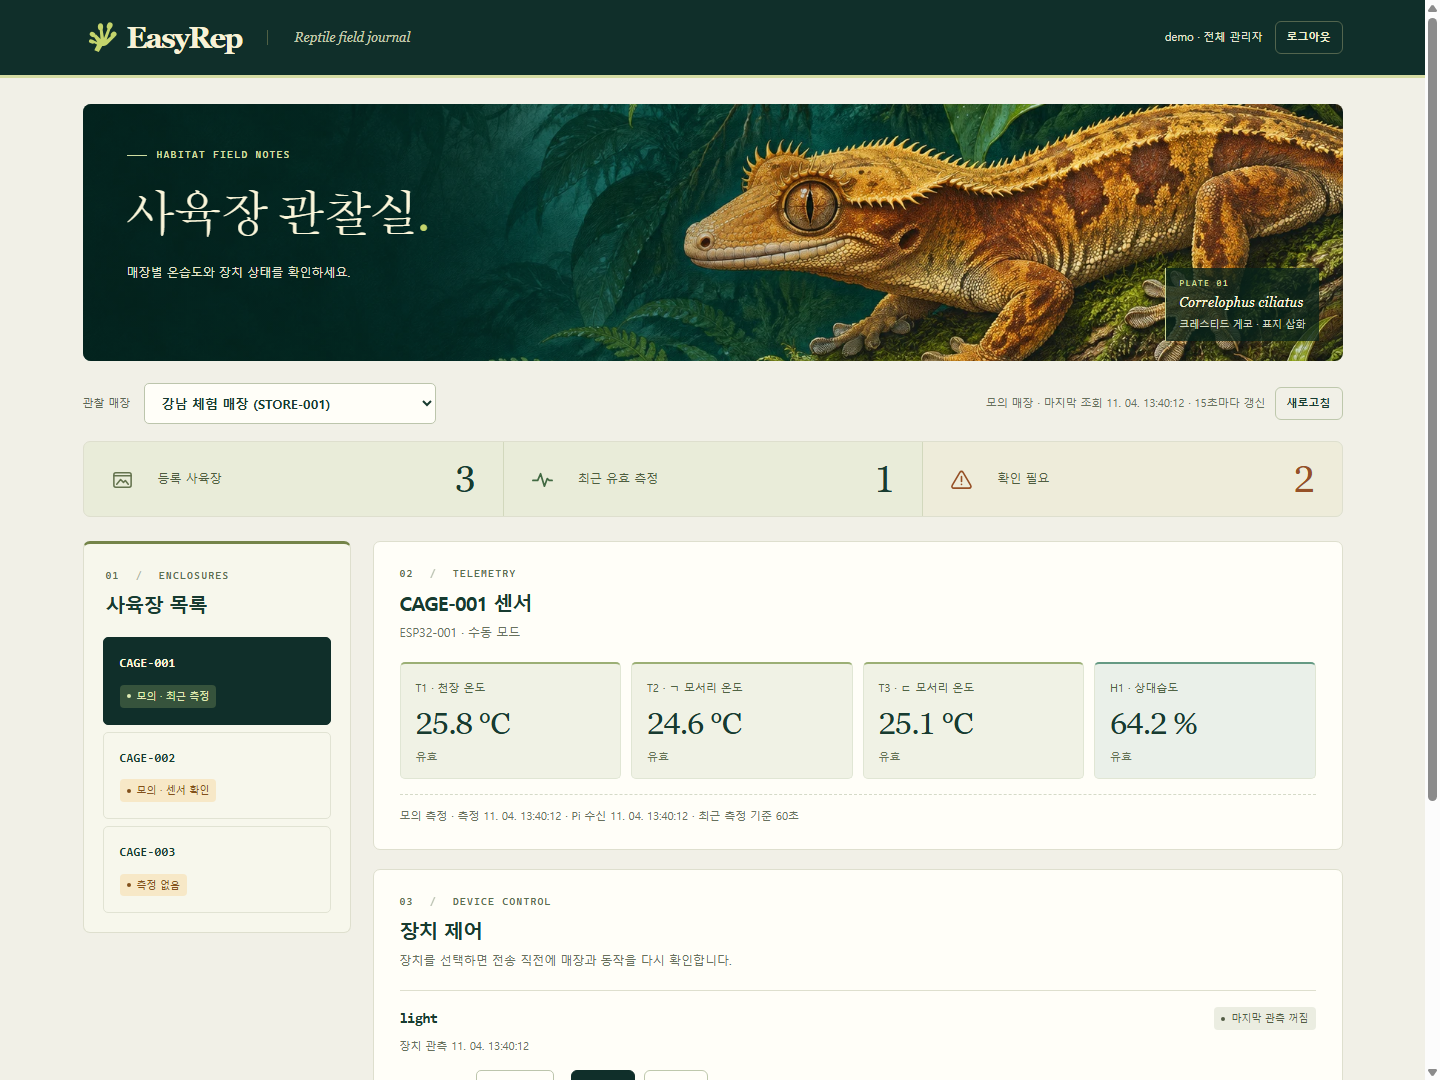
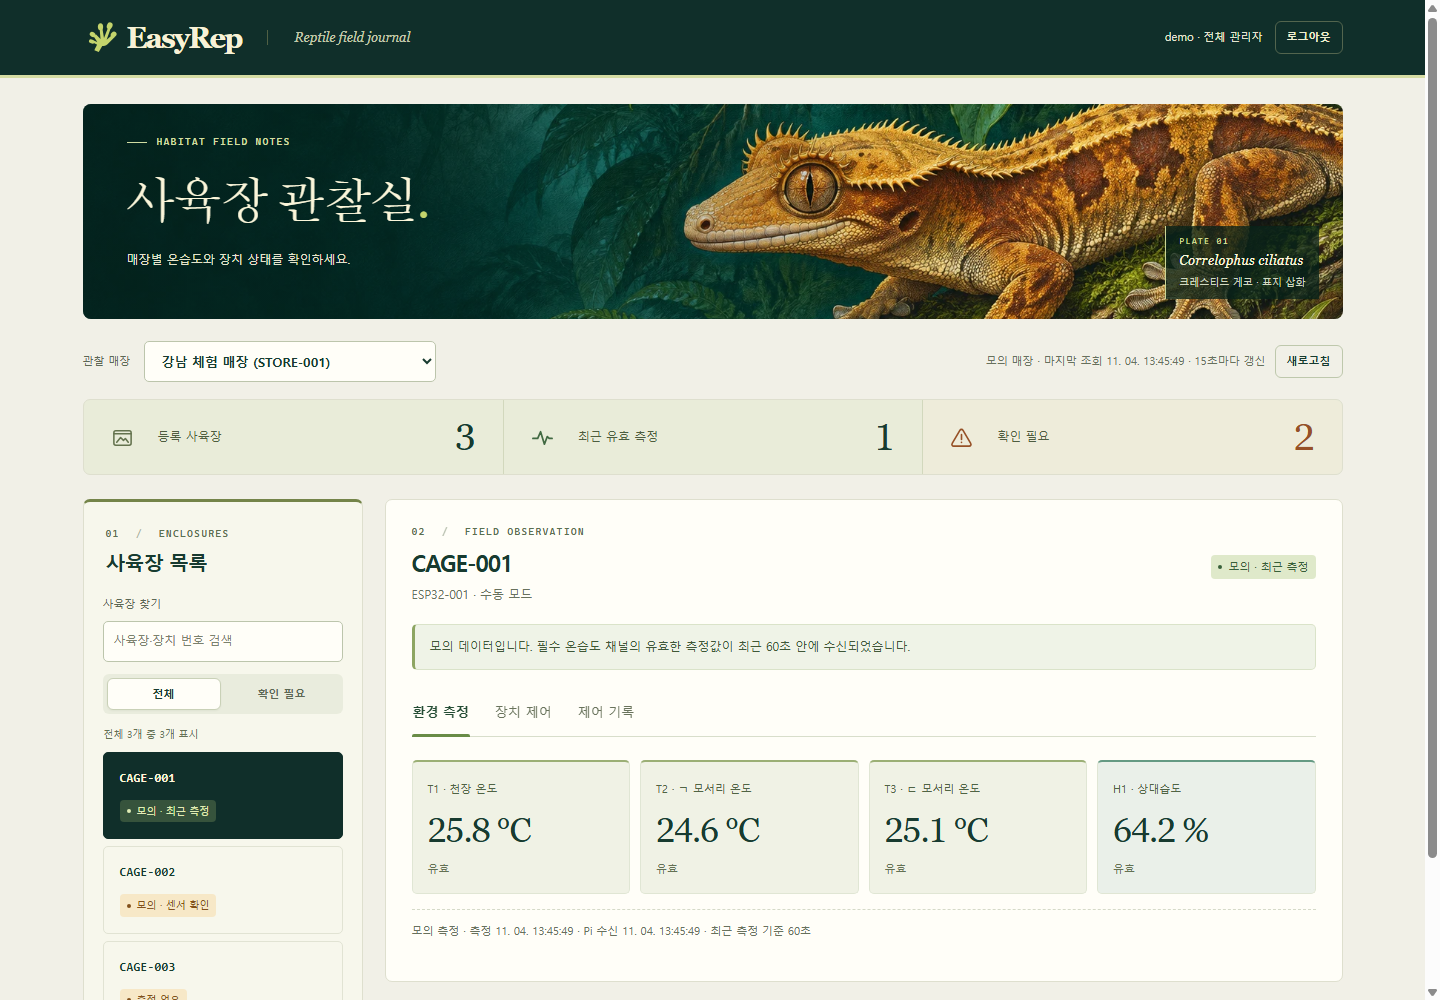
Improve cage discovery, sensor diagnostics and accessible detail tabs

diff --git a/static/app.js b/static/app.js
@@ -12,6 +12,8 @@ const terminal = new Set(["applied","rejected","expired","interrupted","executio
 const labels = {T1:"천장 온도",T2:"ㄱ 모서리 온도",T3:"ㄷ 모서리 온도",H1:"상대습도",RH1:"상대습도"};
 const reasons = {hardware_not_commissioned:"장치 출력 미승인",node_offline:"노드 오프라인",missing_telemetry:"측정값 없음",stale_telemetry:"측정 지연",transport_offline:"전송 연결 끊김",gateway_unhealthy:"게이트웨이 이상",clock_error:"장치 시계 오류"};
 let session = null, store = "", cageId = "", cages = [], view = 0, fetchVersion = 0, commandBusy = false;
+let onlyCare = false;
+const tabs = ["sensors","controls","history"];
 
 function tag(name, text, className) {
   const el = document.createElement(name);
@@ -49,9 +51,70 @@ function condition(cage) {
   if (!readings.length || readings.some(r => r?.quality !== "valid" || !Number.isFinite(r.value))) return [prefix + "센서 확인","warn"];
   return [prefix + "최근 측정","good"];
 }
+function sensorName(id) {
+  return Object.hasOwn(labels,id) ? id + "(" + labels[id] + ")" : id;
+}
+function blockedReason(reason) {
+  const [kind,id] = String(reason).split(":");
+  const sensorReasons = {
+    sensor_unavailable:"측정값을 확인할 수 없습니다",
+    sensor_out_of_range:"값이 장치에 설정된 범위를 벗어났습니다",
+    guard_minimum:"값이 장치에 설정된 하한 조건에 걸렸습니다",
+    guard_maximum:"값이 장치에 설정된 상한 조건에 걸렸습니다"
+  };
+  if (id && Object.hasOwn(sensorReasons,kind)) return sensorName(id) + " " + sensorReasons[kind];
+  return mapped(reasons,reason);
+}
+function cageAdvice(cage) {
+  if (!cage) return cages.length ? "검색어나 필터를 바꾸어 표시할 사육장을 선택하세요." : "매장과 사육장을 선택하면 측정 상태를 확인할 수 있습니다.";
+  const notes = [];
+  if (cage.transport_connected !== true) notes.push("전송 연결이 끊겼습니다. 현장 Pi와 장치 연결을 확인하세요.");
+  const t = cage.telemetry;
+  if (!t) {
+    notes.push("온습도 측정값을 아직 받지 못했습니다. BB6 센서와 수신 상태를 확인하세요.");
+    return notes.join(" ");
+  }
+  if (t.data_source === "simulation") notes.push("모의 데이터입니다.");
+  const readings = t.readings || {};
+  const missing = missingBB6(readings);
+  if (missing.length) notes.push(missing.map(sensorName).join(", ") + " 값이 누락되었습니다.");
+  const invalid = Object.entries(readings).filter(([,r]) => r?.quality !== "valid" || !Number.isFinite(r.value));
+  if (invalid.length) notes.push(invalid.map(([id,r]) => sensorName(id) + " " + (r?.quality === "valid" ? "수치 오류" : mapped(qualities,r?.quality))).join(", ") + ". 센서 배선과 연결을 확인하세요.");
+  if (!sampledRecently(t)) notes.push("측정 시각 또는 Pi 수신 시각이 최근 60초 범위 밖이거나 확인되지 않습니다. 장치 시계와 수신 상태를 확인하세요.");
+  if (cage.transport_connected === true && !missing.length && !invalid.length && sampledRecently(t)) notes.push("필수 온습도 채널의 유효한 측정값이 최근 60초 안에 수신되었습니다.");
+  return notes.join(" ");
+}
+function selectTab(name, focus = false) {
+  for (const key of tabs) {
+    const selected = key === name, tab = $("tab-" + key);
+    tab.setAttribute("aria-selected",String(selected));
+    tab.tabIndex = selected ? 0 : -1;
+    $("panel-" + key).hidden = !selected;
+  }
+  if (focus) $("tab-" + name).focus();
+}
+function resetFilters() {
+  onlyCare = false; $("cage-search").value = "";
+  $("filter-all").setAttribute("aria-pressed","true");
+  $("filter-care").setAttribute("aria-pressed","false");
+}
+function filteredCages() {
+  const query = $("cage-search").value.trim().toLocaleLowerCase();
+  return cages.filter(c => (!onlyCare || condition(c)[1] !== "good") &&
+    [c.cage_id,c.node_id].some(id => String(id || "").toLocaleLowerCase().includes(query)));
+}
+function updateFilteredCages() {
+  const shown = filteredCages();
+  if (!shown.some(c => c.cage_id === cageId)) {
+    setCage(shown[0]?.cage_id || "");
+    return;
+  }
+  renderCages(); renderDetails();
+}
 function showNotice(text = "") { $("notice").textContent = text; $("notice").hidden = !text; }
 function showLogin(message = "") {
   session = null; store = ""; cageId = ""; cages = []; view++; fetchVersion++;
+  resetFilters(); selectTab("sensors");
   $("boot").hidden = true; $("console").hidden = true; $("access").hidden = false;
   $("password").value = ""; $("login-message").textContent = message; $("username").focus();
 }
@@ -76,25 +139,40 @@ async function api(path, data) {
 }
 const storePath = () => "/api/stores/" + enc(store);
 function setCage(id) {
-  if (id !== cageId) $("action-message").textContent = "";
+  const moveDetailFocus = id !== cageId && tabs.some(name =>
+    document.activeElement === $("tab-" + name) || $("panel-" + name).contains(document.activeElement));
+  if (id !== cageId) { $("action-message").textContent = ""; selectTab("sensors"); }
   cageId = id; view++; renderCages(); renderDetails();
+  if (moveDetailFocus) (id ? $("tab-sensors") : $("cage-search")).focus();
   $("commands").replaceChildren(empty("제어 기록을 불러오는 중…"));
   refreshHistory(view);
 }
 function renderCages() {
+  const focusedCage = $("cages").contains(document.activeElement) ? document.activeElement.dataset.cage : null;
   const good = cages.filter(c => condition(c)[1] === "good").length;
   $("count-all").textContent = cages.length; $("count-ok").textContent = good; $("count-care").textContent = cages.length-good;
-  const nodes = cages.map(c => {
+  const shown = filteredCages();
+  $("filter-all").setAttribute("aria-pressed",String(!onlyCare));
+  $("filter-care").setAttribute("aria-pressed",String(onlyCare));
+  $("list-summary").textContent = "전체 " + cages.length + "개 중 " + shown.length + "개 표시";
+  const nodes = shown.map(c => {
     const b = tag("button",null,"cage-button");
+    b.dataset.cage = c.cage_id;
     b.setAttribute("aria-pressed",String(c.cage_id === cageId));
     b.append(tag("b",c.cage_id),badge(...condition(c)));
     b.addEventListener("click",() => setCage(c.cage_id)); return b;
   });
-  $("cages").replaceChildren(...(nodes.length ? nodes : [empty("표시할 사육장이 없습니다.")]));
+  $("cages").replaceChildren(...(nodes.length ? nodes : [empty(cages.length ? "검색·필터 조건에 맞는 사육장이 없습니다." : "표시할 사육장이 없습니다.")]));
+  if (focusedCage) (nodes.find(n => n.dataset.cage === focusedCage) || nodes.find(n => n.dataset.cage === cageId) || $("cage-search")).focus();
 }
 function renderDetails(keepInput = false) {
   const cage = cages.find(c => c.cage_id === cageId);
-  $("cage-title").textContent = cage ? cageId + " 센서" : "센서 측정값";
+  $("cage-title").textContent = cage ? cageId : "사육장 상세";
+  $("cage-state").replaceChildren(...(cage ? [badge(...condition(cage))] : []));
+  $("cage-advice").setAttribute("role","status");
+  $("cage-advice").dataset.tone = cage ? condition(cage)[1] : "";
+  const advice = cageAdvice(cage);
+  if ($("cage-advice").textContent !== advice) $("cage-advice").textContent = advice;
   $("cage-meta").textContent = cage ? [cage.node_id, cage.mode === "auto" ? "자동 모드" : cage.mode === "manual" ? "수동 모드" : cage.mode].filter(Boolean).join(" · ") : "매장과 사육장을 선택하세요.";
   const t = cage?.telemetry;
   const readings = t?.readings || {};
@@ -123,7 +201,7 @@ function renderControls(cage) {
     head.append(tag("h3",id),badge(typeof obs?.state === "boolean" ? (obs.state ? "마지막 관측 켜짐" : "마지막 관측 꺼짐") : "관측 없음"));
     section.append(head);
     if (obs?.occurred_at) section.append(tag("p","장치 관측 " + displayTime(obs.occurred_at)));
-    if (a.on_blocked_reason) section.append(tag("p","켜기 제한 · " + mapped(reasons,a.on_blocked_reason)));
+    if (a.on_blocked_reason) section.append(tag("p","켜기 제한 · " + blockedReason(a.on_blocked_reason)));
     if (!hasAccess) return section;
     const actions = tag("div",null,"control-actions"), input = tag("input"), label = tag("label","켜짐 시간(초) ");
     input.type = "number"; input.step = "any"; input.min = "0.001"; input.max = String(Math.min(3600,Number(a.max_on_s) || 0));
@@ -160,7 +238,7 @@ function historyRow(c) {
     button.addEventListener("click",async () => {
       const token = view; button.disabled = true;
       try { await api(storePath() + "/commands/" + enc(c.request_id)); if (view === token) await refreshHistory(token,false); }
-      catch(e) { if (view === token) $("action-message").textContent = e.message; }
+      catch(e) { if (view === token) showNotice(e.message); }
       finally { button.disabled = false; }
     }); right.append(button);
   }
@@ -226,7 +304,7 @@ async function refresh() {
     cages = data.cages;
     const simulated = cages.length > 0 && cages.every(c => c.transport === "simulated");
     showNotice(); $("updated").textContent = (simulated ? "모의 매장 · " : "") + "마지막 조회 " + displayTime(Date.now()) + " · 15초마다 갱신";
-    if (!cages.some(c => c.cage_id === cageId)) { setCage(cages[0]?.cage_id || ""); }
+    if (!filteredCages().some(c => c.cage_id === cageId)) { setCage(filteredCages()[0]?.cage_id || ""); }
     else {
       renderCages();
       renderDetails($("controls").contains(document.activeElement));
@@ -242,6 +320,7 @@ async function refresh() {
 }
 function selectStore() {
   view++; fetchVersion++; store = $("store").value; cageId = ""; cages = []; showNotice();
+  resetFilters(); selectTab("sensors");
   $("action-message").textContent = ""; $("updated").textContent = store ? "매장 데이터 조회 중…" : "등록된 매장이 없습니다.";
   renderCages(); renderDetails(); $("commands").replaceChildren();
   for (const id of ["count-all","count-ok","count-care"]) $(id).textContent = "—";
@@ -269,5 +348,23 @@ $("logout").addEventListener("click",async () => {
 });
 $("store").addEventListener("change",selectStore);
 $("refresh").addEventListener("click",refresh);
+$("cage-search").addEventListener("input",() => updateFilteredCages());
+for (const [id,care] of [["filter-all",false],["filter-care",true]]) {
+  $(id).addEventListener("click",() => { onlyCare = care; updateFilteredCages(); });
+}
+for (const [index,name] of tabs.entries()) {
+  const tab = $("tab-" + name);
+  tab.addEventListener("click",() => selectTab(name));
+  tab.addEventListener("keydown",event => {
+    const keys = {ArrowLeft:(index + tabs.length - 1) % tabs.length,ArrowRight:(index + 1) % tabs.length,Home:0,End:tabs.length - 1};
+    if (!Object.hasOwn(keys,event.key)) return;
+    const next = keys[event.key];
+    event.preventDefault(); selectTab(tabs[next],true);
+  });
+}
+selectTab("sensors");
+document.addEventListener("visibilitychange",() => {
+  if (!document.hidden && session && !commandBusy && !$("refresh").disabled) refresh();
+});
 setInterval(() => { if (!document.hidden && session && !$("refresh").disabled && !commandBusy) refresh(); },15000);
 api("/api/session").then(openConsole).catch(e => showLogin(e.status === 401 ? "" : e.message));

diff --git a/static/style.css b/static/style.css
@@ -148,8 +148,8 @@ h2 { font-size: 20px; font-weight: 700; }
 .mast .quiet { color: #eff0cf; border-color: #53654e; }
 .mast .quiet:hover:enabled { background: #294b3b; border-color: #90a36c; }
 .content { padding-top: 26px; }
-.hero { min-height: 257px; overflow: hidden; border-radius: 8px; }
-.hero-copy { padding: 43px 44px 53px; width: 53%; }
+.hero { min-height: 215px; overflow: hidden; border-radius: 8px; }
+.hero-copy { padding: 30px 44px 34px; width: 53%; }
 .hero .kicker { color: #d0dda2; margin-bottom: 17px; }
 .hero h1 { font-family: var(--serif); font-size: clamp(35px, 3.5vw, 49px); font-weight: 500; line-height: 1.4; white-space: nowrap; }
 .hero-copy > p:last-child { font-size: 12px; color: #e5e4cc; margin-top: 14px; word-break: keep-all; text-wrap: pretty; }
@@ -178,7 +178,7 @@ h2 { font-size: 20px; font-weight: 700; }
 .stat-care { background: #eeecda; border-radius: 0 7px 7px 0; }
 .stat-care > svg, .stat-care > strong { color: #965127; }
 .notice { color: #7d3719; background: #ffebd1; border: 1px solid #e3b88e; border-radius: 6px; padding: 12px 16px; margin: 12px 0; font-size: 13px; }
-.workspace { display: grid; grid-template-columns: 268px minmax(0, 1fr); gap: 22px; align-items: start; }
+.workspace { display: grid; grid-template-columns: 280px minmax(0, 1fr); gap: 22px; align-items: start; }
 .stack { min-width: 0; display: grid; gap: 19px; }
 .panel { background: var(--paper); border: 1px solid var(--line); border-radius: 7px; padding: 24px 26px; }
 .panel-head { margin-bottom: 19px; }
@@ -186,6 +186,13 @@ h2 { font-size: 20px; font-weight: 700; }
 .panel-head .muted { font-size: 12px; }
 .cage-index { padding: 24px 19px 19px; border-top: 3px solid #748449; background: #f7f7ec; }
 .cage-index .panel-head { padding-inline: 3px; }
+.search-label { display: block; font-size: 11px; color: #5c6855; margin-bottom: 7px; }
+.cage-search { width: 100%; min-height: 41px; font-size: 12px; padding: 9px 10px; }
+.cage-search::placeholder { color: #7b816d; }
+.cage-filters { display: flex; gap: 4px; padding: 4px; margin-top: 12px; background: #e9ecdd; border-radius: 6px; }
+.cage-filters button { flex: 1; border: 1px solid transparent; background: transparent; padding: 6px 8px; font-size: 11px; color: #5c6855; }
+.cage-filters button[aria-pressed="true"] { background: var(--paper); color: var(--ink); border-color: #c9d1b7; box-shadow: 0 1px 2px rgb(35 54 27 / 5%); }
+.list-summary { color: #657154; font-size: 10px; margin: 12px 1px 10px; }
 .cage-list { display: grid; gap: 7px; }
 .cage-button {
   width: 100%;
@@ -208,10 +215,25 @@ h2 { font-size: 20px; font-weight: 700; }
 .badge.warn { background: #f7e8c7; color: #82501b; }
 .badge.bad { background: #f9e0d3; color: #923b25; }
 .cage-button[aria-pressed="true"] .badge.good { background: #36533c; color: #e0ecb5; }
+.selected-header { display: flex; justify-content: space-between; align-items: center; gap: 12px; }
+.selected-header h2 { font-size: 23px; }
+.selected-header .badge { font-size: 11px; }
+.health-note { background: #eff3e7; border: 1px solid #dae3c9; border-left: 3px solid #8da562; border-radius: 5px; padding: 12px 15px; color: #405838; font-size: 12px; word-break: keep-all; overflow-wrap: anywhere; }
+.health-note[data-tone="warn"] { background: #fbf2e1; border-color: #ead9b8; border-left-color: #ba8842; color: #815323; }
+.health-note[data-tone="bad"] { background: #fbeae0; border-color: #e9ccbb; border-left-color: #aa5633; color: #89452d; }
+.health-note:empty { display: none; }
+.detail-tabs { display: flex; gap: 24px; margin-top: 22px; border-bottom: 1px solid #d8decb; }
+.detail-tabs button { position: relative; border: 0; border-radius: 0; background: transparent; padding: 9px 1px 13px; min-height: 44px; color: #69735c; font-size: 13px; font-weight: 500; }
+.detail-tabs button[aria-selected="true"] { color: #254d35; font-weight: 700; }
+.detail-tabs button[aria-selected="true"]::after { content: ""; position: absolute; height: 3px; background: #698c47; left: 0; right: 0; bottom: -1px; border-radius: 2px 2px 0 0; }
+.detail-tabs button:hover:enabled { color: #254d35; background: #f1f4e8; }
+.detail-panel { padding-top: 23px; min-height: 220px; }
+.detail-panel:focus-visible { outline: 2px solid #b17d28; outline-offset: 5px; }
+.detail-panel > .muted { margin: 0 0 17px; font-size: 12px; }
 .readings { display: grid; grid-template-columns: repeat(auto-fit, minmax(125px, 1fr)); gap: 10px; }
-.reading { padding: 15px 15px 12px; background: #f0f2e5; border: 1px solid #e0e6d4; border-top: 2px solid #9baf75; border-radius: 5px; min-width: 0; overflow-wrap: anywhere; }
+.reading { padding: 18px 15px 15px; background: #f0f2e5; border: 1px solid #e0e6d4; border-top: 2px solid #9baf75; border-radius: 5px; min-width: 0; overflow-wrap: anywhere; }
 .reading b { display: block; color: #506444; font-size: 11px; font-weight: 500; }
-.reading strong { display: block; margin: 6px 0 3px; font-family: Georgia, "Malgun Gothic", serif; font-weight: 400; font-size: 31px; line-height: 1.35; letter-spacing: -.035em; font-variant-numeric: lining-nums tabular-nums; }
+.reading strong { display: block; margin: 10px 0 6px; font-family: Georgia, "Malgun Gothic", serif; font-weight: 400; font-size: 34px; line-height: 1.35; letter-spacing: -.035em; font-variant-numeric: lining-nums tabular-nums; }
 .reading small { display: block; font-size: 11px; color: #647153; }
 .reading[data-quality="error"] { background: #fcf0df; border-color: #edd4ac; border-top-color: #ba7d43; }
 .reading[data-quality="error"] small { color: #8d4d20; }
@@ -274,9 +296,9 @@ footer span { color: #4c654a; font: italic 21px Georgia, serif; }
   .account { font-size: 9px; }
   .mast .quiet { font-size: 10px; padding-inline: 9px; }
   .content { padding-top: 16px; }
-  .hero { min-height: 255px; background-position: 57% center; }
+  .hero { min-height: 214px; background-position: 57% center; }
   .hero::before { background: linear-gradient(90deg, rgb(4 28 23 / 86%), rgb(4 28 23 / 30%) 70%, transparent); }
-  .hero-copy { padding: 29px 22px 75px; width: 100%; }
+  .hero-copy { padding: 25px 22px 65px; width: 100%; }
   .hero .kicker { font-size: 9px; margin-bottom: 14px; }
   .hero h1 { font-size: clamp(28px, 7.5vw, 38px); }
   .hero-copy > p:last-child { font-size: 10px; margin-top: 12px; max-width: 190px; }
@@ -301,12 +323,22 @@ footer span { color: #4c654a; font: italic 21px Georgia, serif; }
   .cage-index .panel-head { display: flex; align-items: center; justify-content: space-between; gap: 6px; padding: 0; }
   .cage-index .eyebrow { margin-bottom: 0; font-size: 9px; }
   .cage-index h2 { font-size: 14px; }
+  .search-label { font-size: 11px; }
+  .cage-search { min-height: 44px; font-size: 16px; }
+  .cage-filters button { min-height: 36px; font-size: 12px; }
+  .list-summary { font-size: 11px; }
   .cage-list { grid-template-columns: repeat(3, minmax(0, 1fr)); gap: 5px; }
   .cage-button { padding: 12px 7px; gap: 10px; font-size: 10px; }
   .cage-button .badge { font-size: 8px; white-space: normal; padding: 3px 4px; gap: 4px; }
   .readings { gap: 8px; }
   .reading { padding: 13px 12px; }
   .reading strong { font-size: 29px; }
+  .selected-header { align-items: flex-start; flex-direction: column; gap: 10px; }
+  .selected-header h2 { font-size: 21px; }
+  .health-note { font-size: 11px; padding: 11px 12px; }
+  .detail-tabs { gap: 20px; margin-top: 14px; }
+  .detail-tabs button { font-size: 12px; }
+  .detail-panel { padding-top: 18px; }
   .footnote { font-size: 9px; }
 }
 @media (max-width: 360px) {

diff --git a/static/index.html b/static/index.html
@@ -68,15 +68,42 @@
       <div class="stat stat-care"><svg aria-hidden="true"><use href="#attention"/></svg><span>확인 필요</span><strong id="count-care">—</strong></div>
     </section>
     <div class="workspace">
-      <aside class="panel cage-index"><div class="panel-head"><p class="eyebrow">01 <span>/</span> Enclosures</p><h2>사육장 목록</h2></div><div id="cages" class="cage-list"></div></aside>
+      <aside class="panel cage-index">
+        <div class="panel-head"><p class="eyebrow">01 <span>/</span> Enclosures</p><h2>사육장 목록</h2></div>
+        <label class="search-label" for="cage-search">사육장 찾기</label>
+        <input id="cage-search" class="cage-search" type="search" placeholder="사육장·장치 번호 검색" autocomplete="off">
+        <div class="cage-filters" role="group" aria-label="사육장 상태 필터">
+          <button id="filter-all" aria-pressed="true">전체</button>
+          <button id="filter-care" aria-pressed="false">확인 필요</button>
+        </div>
+        <p id="list-summary" class="list-summary" role="status"></p>
+        <div id="cages" class="cage-list"></div>
+      </aside>
       <div class="stack">
-        <section class="panel"><div class="panel-head"><p class="eyebrow">02 <span>/</span> Telemetry</p><h2 id="cage-title">센서 측정값</h2><p id="cage-meta" class="muted"></p></div>
-          <div id="readings" class="readings"></div><div id="sample-meta" class="footnote"></div>
+        <section class="panel observation" aria-labelledby="cage-title">
+          <div class="panel-head selected-header">
+            <div><p class="eyebrow">02 <span>/</span> Field observation</p><h2 id="cage-title">사육장을 선택하세요</h2><p id="cage-meta" class="muted"></p></div>
+            <div id="cage-state"></div>
+          </div>
+          <p id="cage-advice" class="health-note" role="status"></p>
+          <div class="detail-tabs" role="tablist" aria-label="사육장 상세 화면">
+            <button id="tab-sensors" role="tab" aria-selected="true" aria-controls="panel-sensors" tabindex="0">환경 측정</button>
+            <button id="tab-controls" role="tab" aria-selected="false" aria-controls="panel-controls" tabindex="-1">장치 제어</button>
+            <button id="tab-history" role="tab" aria-selected="false" aria-controls="panel-history" tabindex="-1">제어 기록</button>
+          </div>
+          <section id="panel-sensors" class="detail-panel" role="tabpanel" aria-labelledby="tab-sensors" tabindex="0">
+            <div id="readings" class="readings"></div>
+            <div id="sample-meta" class="footnote"></div>
+          </section>
+          <section id="panel-controls" class="detail-panel" role="tabpanel" aria-labelledby="tab-controls" tabindex="0" hidden>
+            <p id="control-note" class="muted"></p>
+            <div id="controls"></div><p id="action-message" class="form-message" role="status"></p>
+          </section>
+          <section id="panel-history" class="detail-panel" role="tabpanel" aria-labelledby="tab-history" tabindex="0" hidden>
+            <p class="muted">선택한 사육장에 보낸 요청과 장치의 처리 결과입니다.</p>
+            <div id="commands"></div>
+          </section>
         </section>
-        <section class="panel"><div class="panel-head"><p class="eyebrow">03 <span>/</span> Device control</p><h2>장치 제어</h2><p id="control-note" class="muted"></p></div>
-          <div id="controls"></div><p id="action-message" class="form-message" role="status"></p>
-        </section>
-        <section class="panel"><div class="panel-head"><p class="eyebrow">04 <span>/</span> Command log</p><h2>제어 기록</h2><p class="muted">선택한 사육장에 보낸 요청과 장치의 처리 결과입니다.</p></div><div id="commands"></div></section>
       </div>
     </div>
     <footer><span>EasyRep</span> 파충류 사육장 관찰 기록</footer>

diff --git a/README.md b/README.md
@@ -6,6 +6,8 @@
 
 크레스티드 게코와 정글 식생을 그린 AI 생성 표지 삽화, 짙은 녹색과 크림색의 관찰 기록지 디자인을 사용합니다. 표지 삽화는 장식용이며 센서값은 각 매장의 연결된 게이트웨이에서 조회합니다. 모바일에서도 매장과 사육장을 선택할 수 있습니다.
 
+사육장·장치 번호로 검색하거나 ‘확인 필요’ 필터를 선택하면 누락·오류·수신 지연이 있는 사육장을 모아 볼 수 있습니다. 선택한 사육장의 센서별 안내와 환경 측정·장치 제어·제어 기록 탭으로 점검합니다. 검색 조건에 맞는 사육장이 없으면 상세값과 제어 버튼도 비워집니다.
+
 ## 내 PC에서 체험하기
 
 Python 3.11 이상에서 별도 패키지 설치 없이 실행할 수 있습니다.
